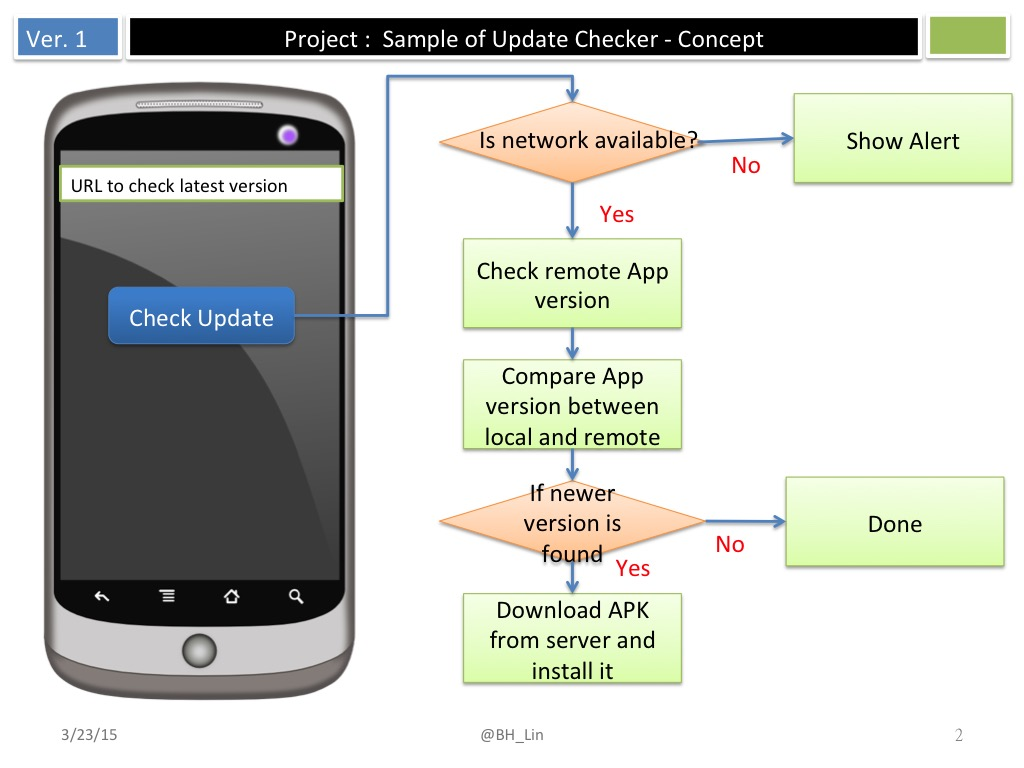
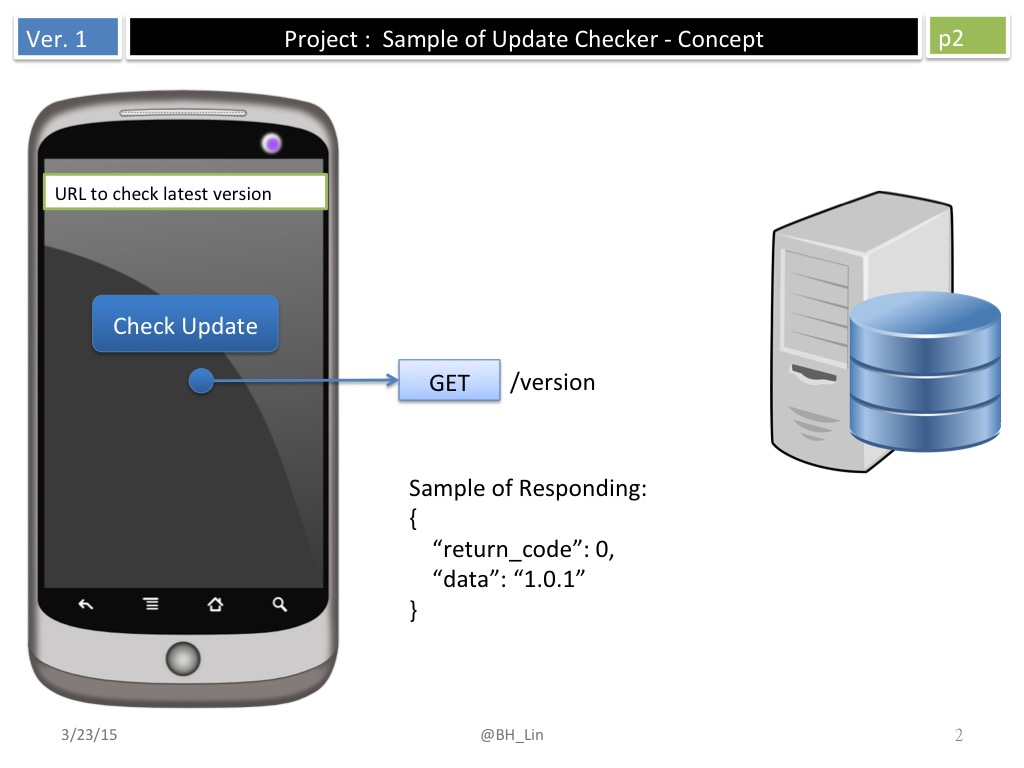
add slide

diff --git a/README.md b/README.md
@@ -25,4 +25,5 @@ You will need to write an apk that could do automatically update with following 
 </ol>
 
 <img src="pictures/Slide1.jpg">
+<img src="pictures/Slide3.jpg">
 <img src="pictures/Slide2.jpg">
